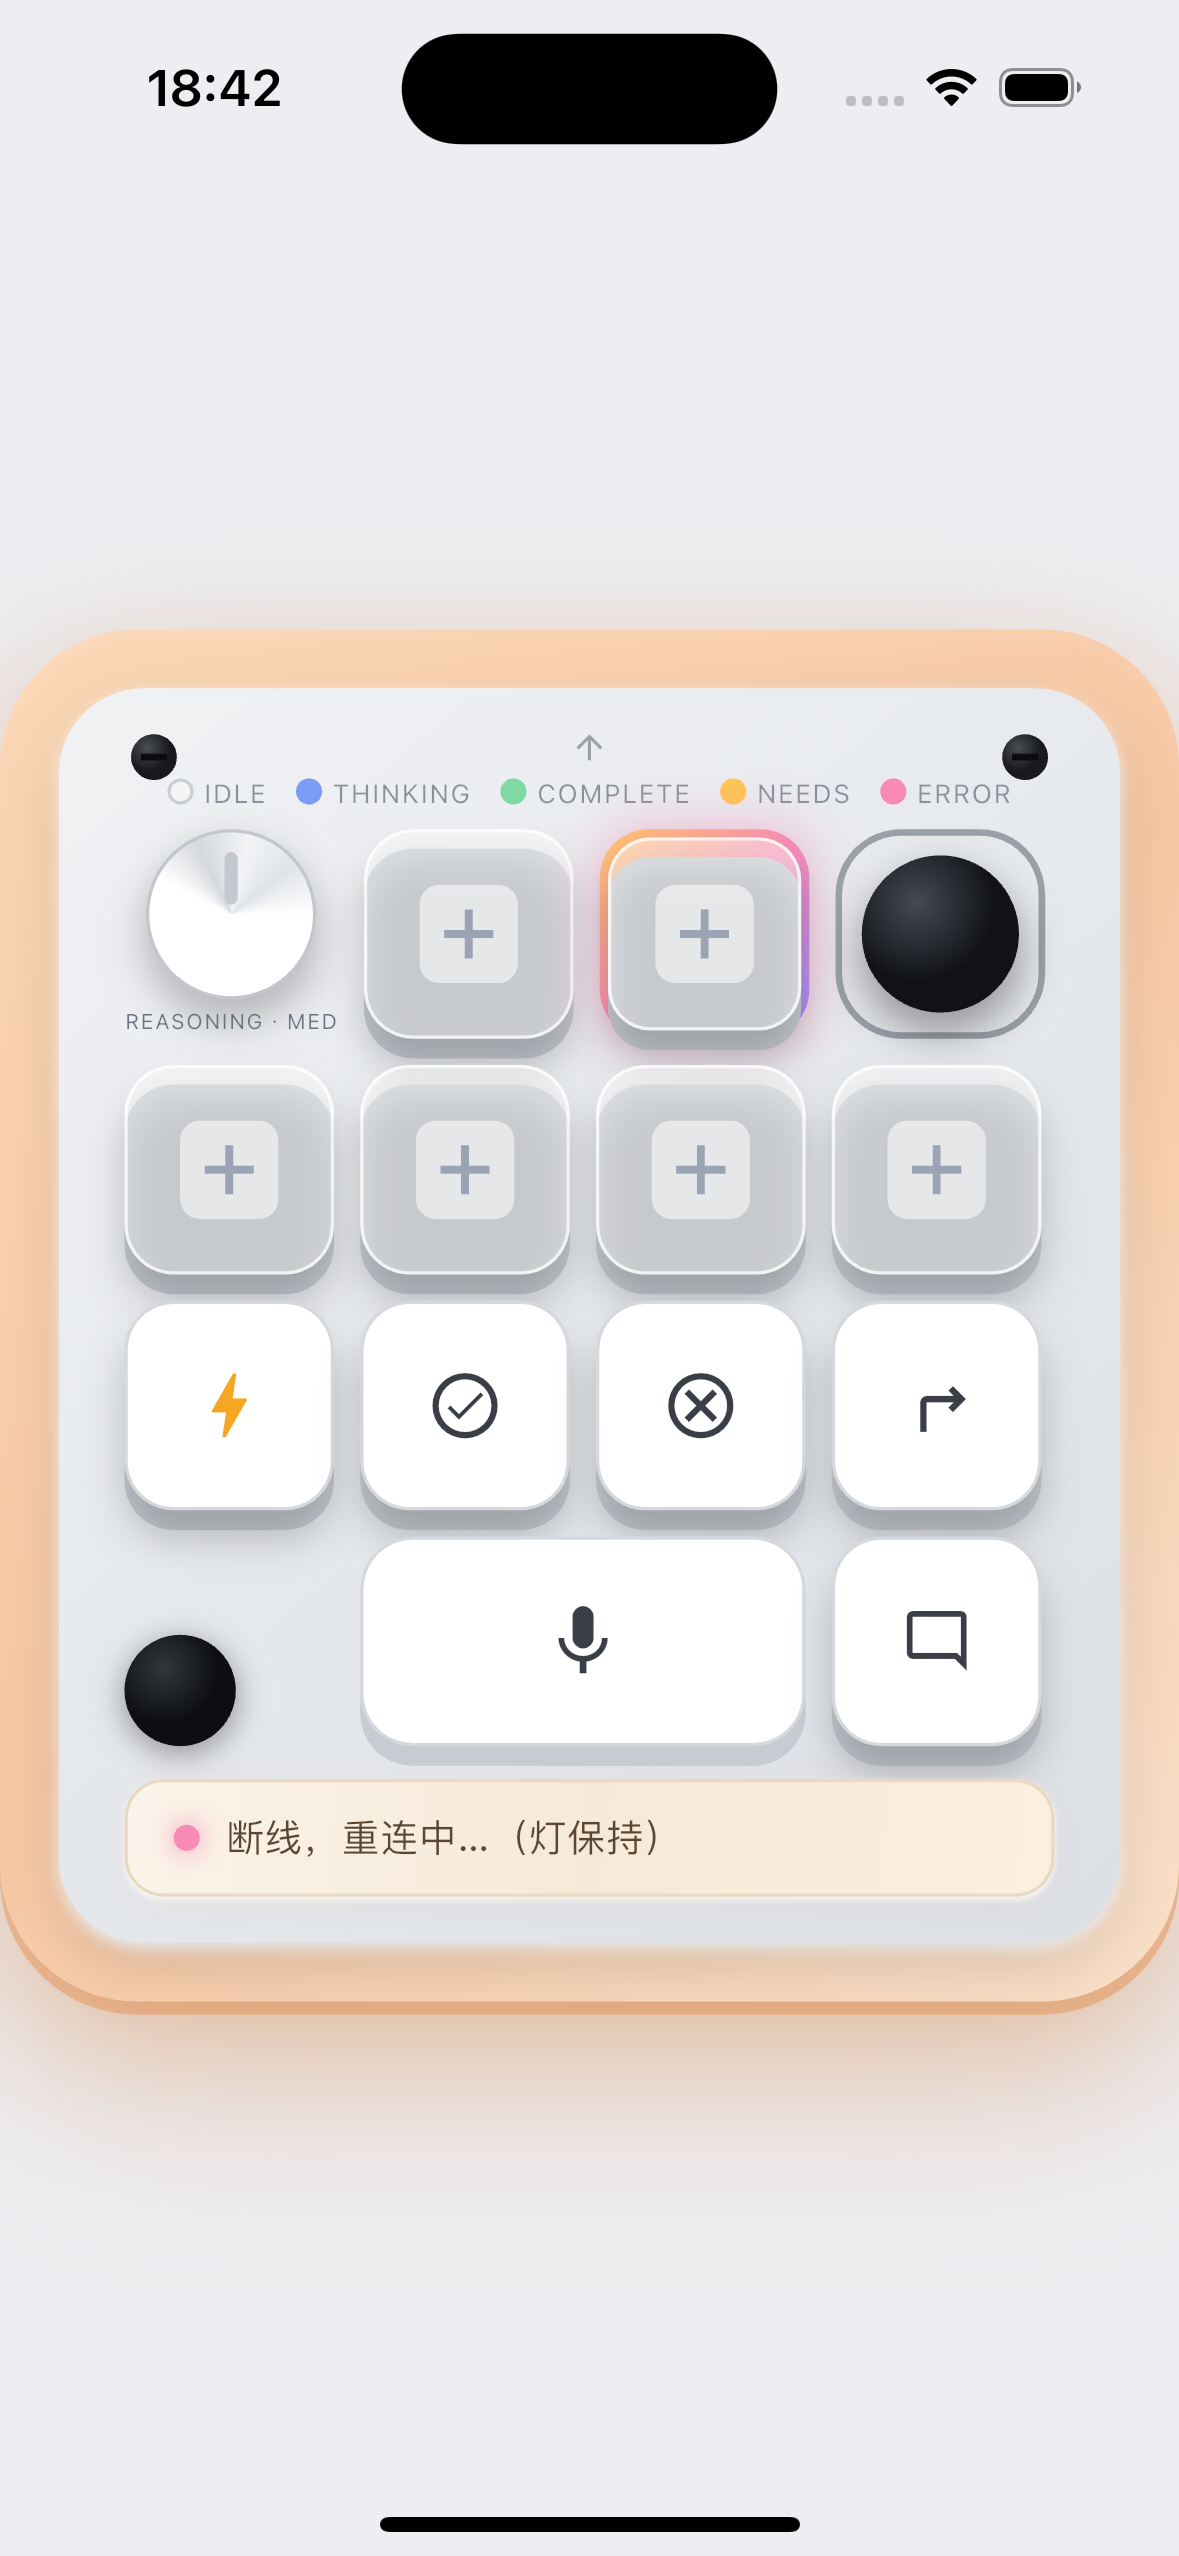
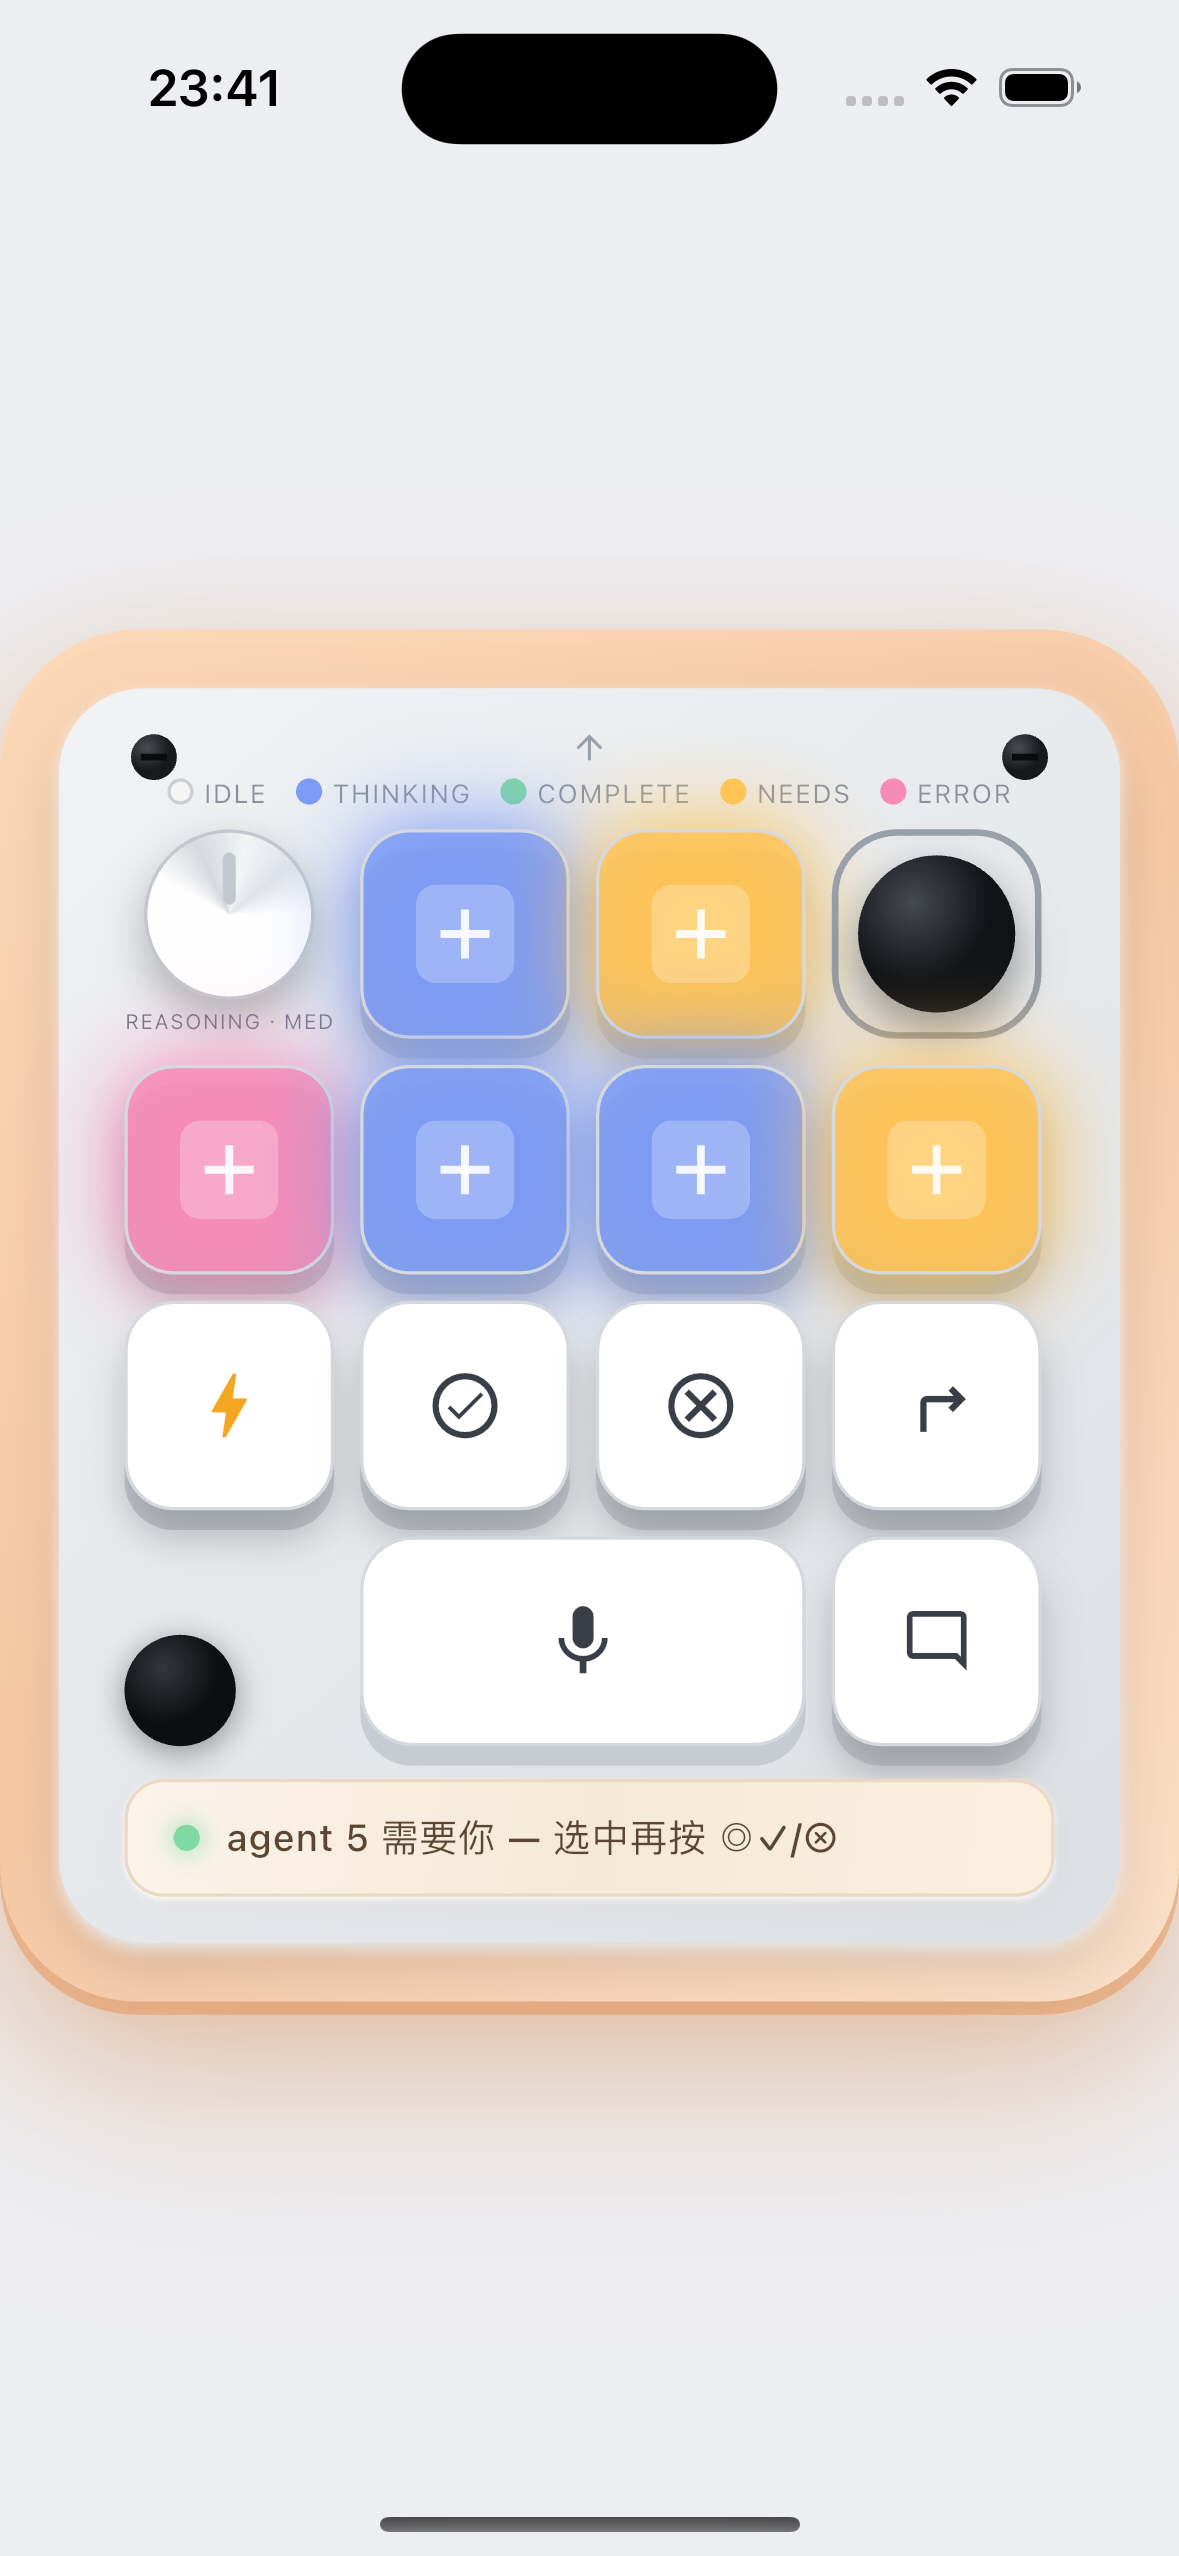
docs(media): iOS 截图换成灯态点亮(连 Host 后 6 槽实时) + 校正 README 说明

diff --git a/README.md b/README.md
@@ -48,7 +48,7 @@
 </tr>
 </table>
 
-> 动图见顶部；`docs/media/openmicro-web-demo.mp4` 是更轻量（254KB）的社交版。App 截图为 Live 模式未连 Host 的静态态（键位空档、灯未点亮）。
+> 动图见顶部；`docs/media/openmicro-web-demo.mp4` 是更轻量（254KB）的社交版。两图均为灯态点亮：web 是 Demo 模式假 agent 自演，App 是原生端连上 Host 后 6 槽实时反映真实会话（蓝=思考 / 琥珀=待你输入 / 粉=出错）。
 
 ## 快速开始
 